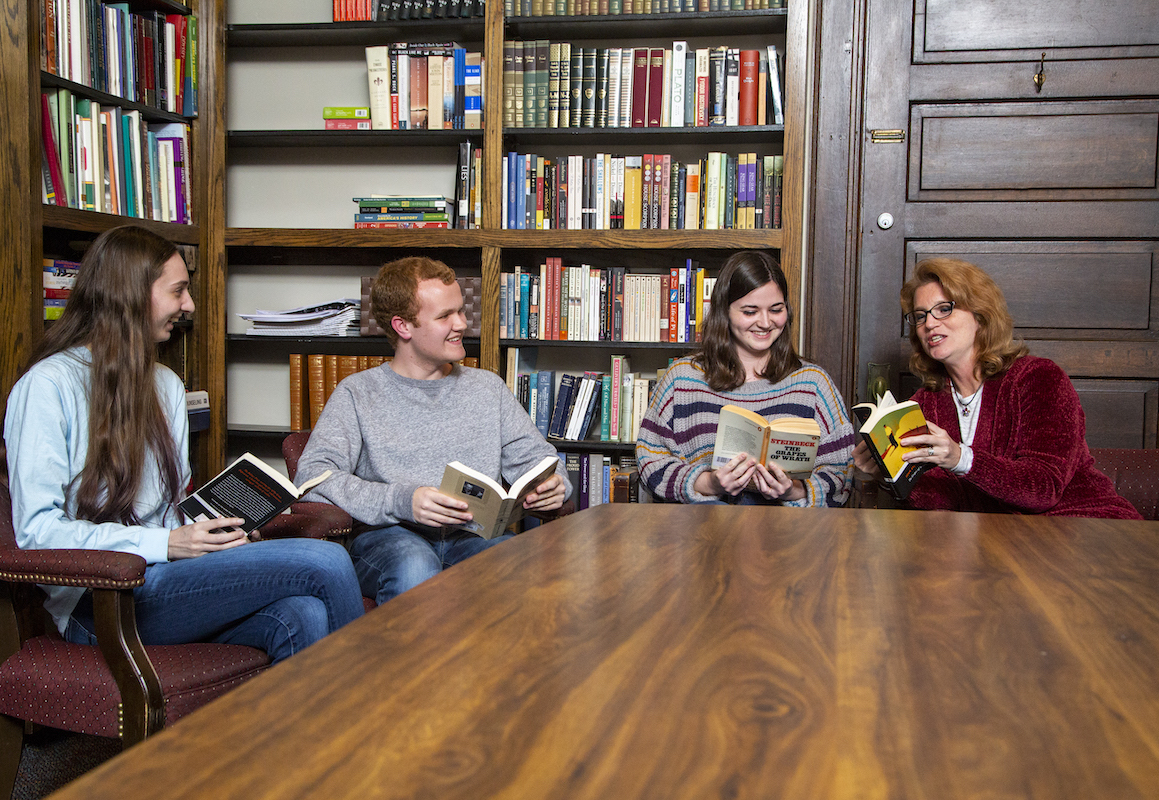
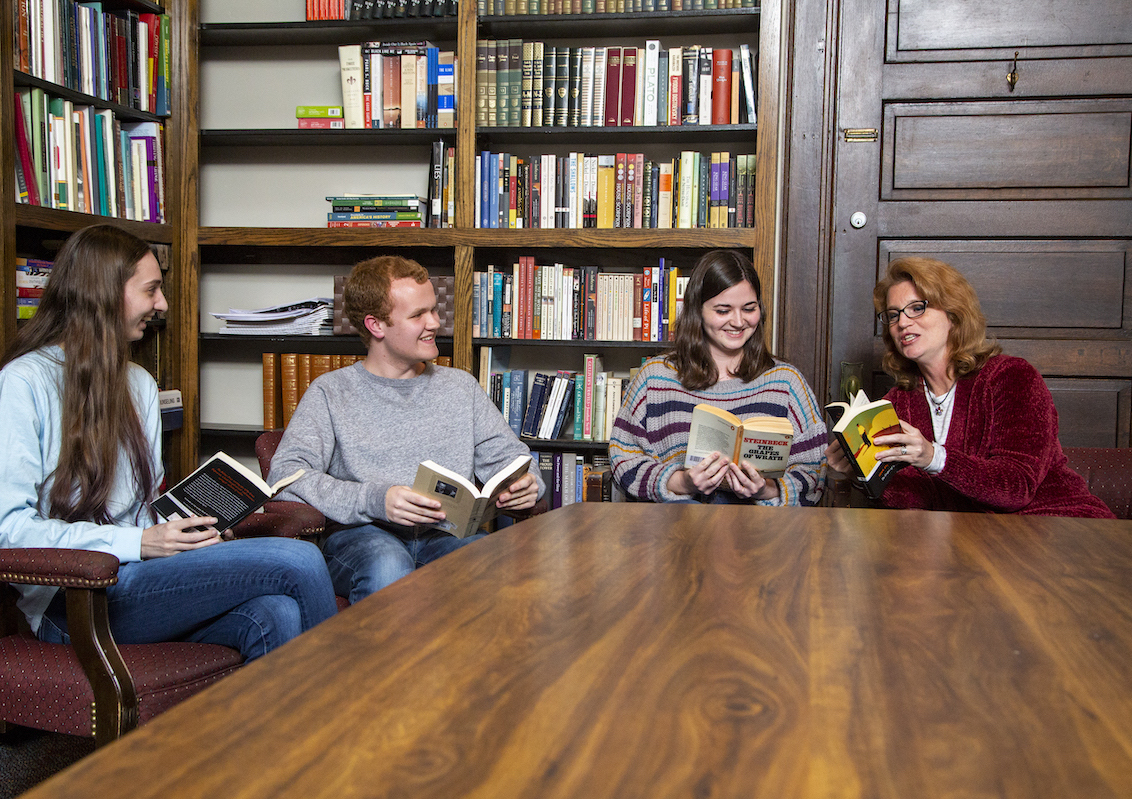
changed and cropped image

diff --git a/styles.css b/styles.css
@@ -159,7 +159,7 @@ body{
 .scholarship{
     flex-grow: 1.1;
     flex-shrink: 1;
-    background-image: url(/Images/science_BW4A2566.jpg);
+    background-image: url(/Images/JJ_four.jpg);
     background-size: cover;
     background-repeat: no-repeat;
     /* max-width: 350px; */
